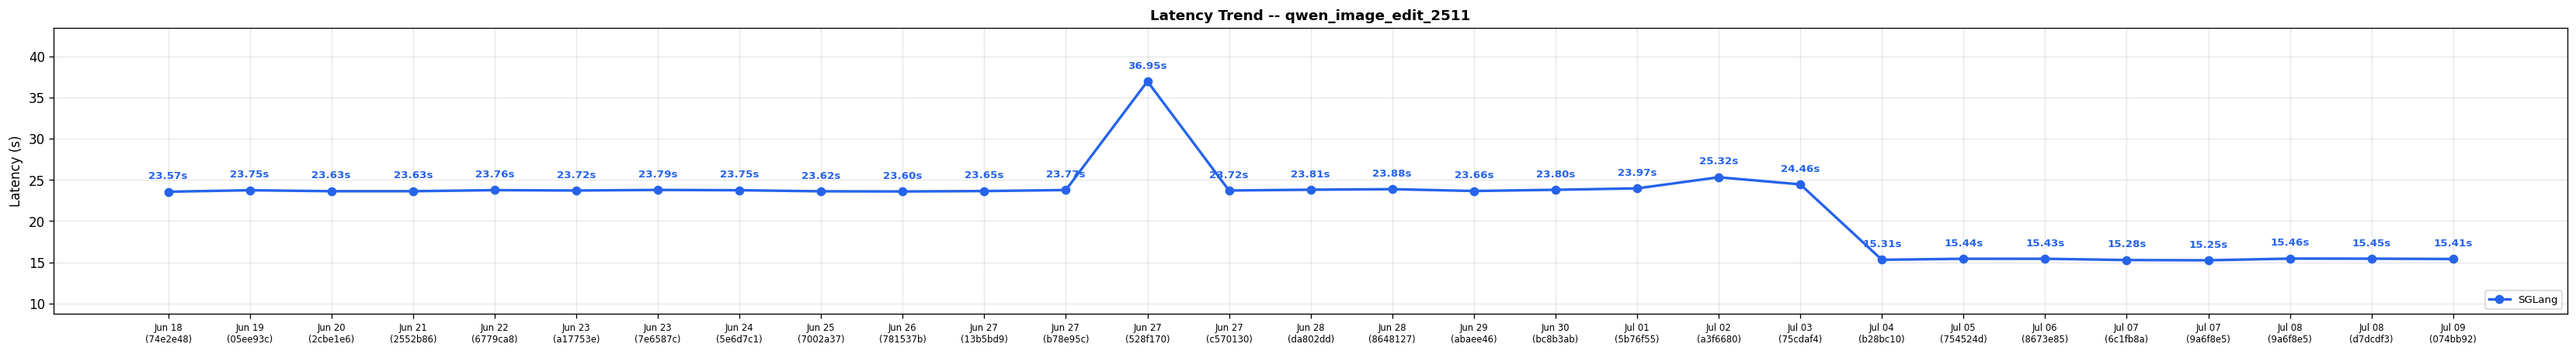
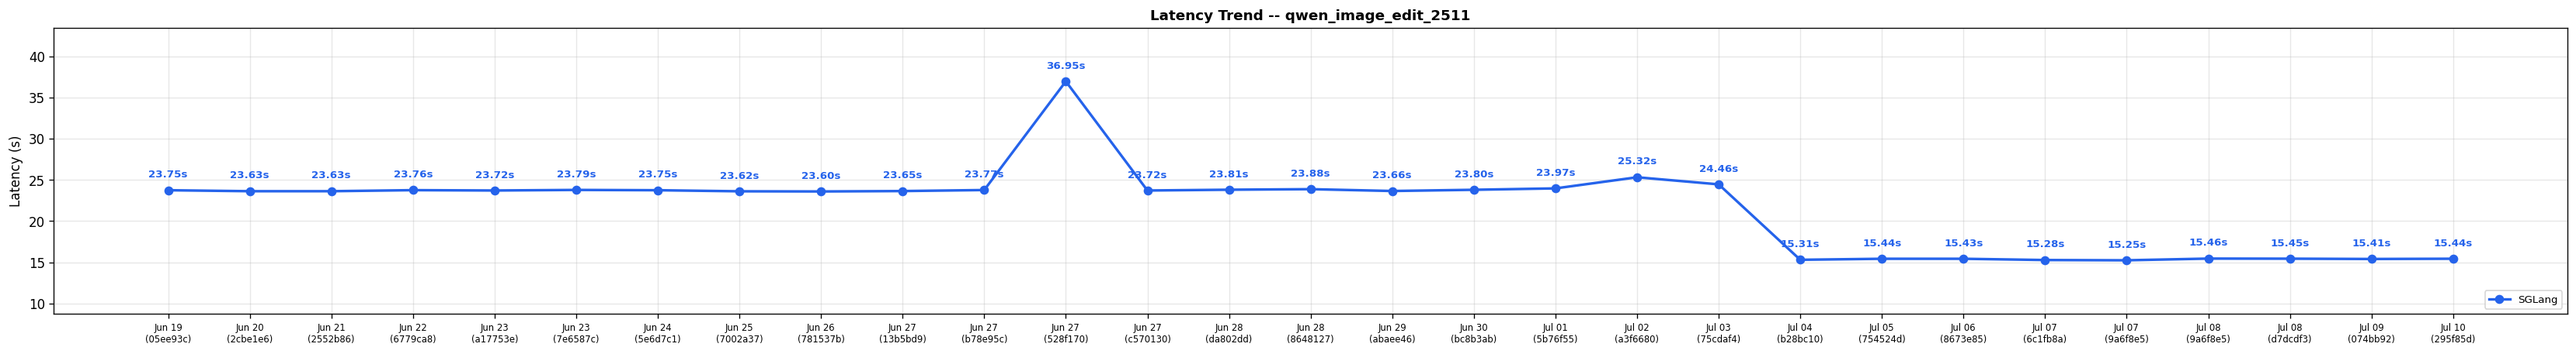
Diffusion comparison results for run 29060884501 (#710)

diff --git a/diffusion-comparisons/dashboard.md b/diffusion-comparisons/dashboard.md
@@ -1,28 +1,28 @@
 # SGLang-Diffusion Nightly Performance Dashboard
 
-*Generated: Jul 09 | Commit: `074bb92`*
+*Generated: Jul 10 | Commit: `295f85d`*
 
 > [!WARNING]
 > **Performance Regression Detected**
 >
-> - **ltx2.3_twostage_ti2v_2gpus** (sglang): 16.06s -> 17.07s (+6.3%)
+> - **cosmos3_super_t2v_2gpu** (sglang): 116.33s -> 128.45s (+10.4%)
 
 
 ## SGLang-Diffusion Performance
 
 | Model | Risk | sglang (s) |
 |-------|------|---------|
-| FLUX.1-dev | ✅ | **4.87** |
-| FLUX.2-dev | ✅ | **14.45** |
-| Qwen-Image-2512 | ✅ | **10.74** |
-| Qwen-Image-Edit-2511 | ✅ | **15.41** |
-| Z-Image-Turbo | ✅ | **0.83** |
-| Wan2.2-T2V-A14B-Diffusers | ✅ | **210.74** |
-| Wan2.2-TI2V-5B-Diffusers | ✅ | **65.24** |
-| LTX-2.3 | ⚠ | **17.07** |
-| ideogram-4-fp8 | ✅ | **5.34** |
-| Cosmos3-Super | ✅ | **116.33** |
-| Wan2.2-I2V-A14B-Diffusers | ✅ | **204.68** |
+| FLUX.1-dev | ✅ | **4.88** |
+| FLUX.2-dev | ✅ | **14.46** |
+| Qwen-Image-2512 | ✅ | **8.98** |
+| Qwen-Image-Edit-2511 | ✅ | **15.44** |
+| Z-Image-Turbo | ✅ | **0.82** |
+| Wan2.2-T2V-A14B-Diffusers | ✅ | **210.72** |
+| Wan2.2-TI2V-5B-Diffusers | ✅ | **65.23** |
+| LTX-2.3 | ✅ | **13.05** |
+| ideogram-4-fp8 | ✅ | **5.38** |
+| Cosmos3-Super | ⚠ | **128.45** |
+| Wan2.2-I2V-A14B-Diffusers | ✅ | **205.69** |
 
 ### Latency Trend: flux1_dev_t2i_1024
 
@@ -83,6 +83,7 @@
 
 | Date | Commit | flux1_dev_t2i_1024 (s) | flux2_dev_t2i_1024 (s) | qwen_image_2512_t2i_1024 (s) | qwen_image_edit_2511 (s) | zimage_turbo_t2i_1024 (s) | wan22_t2v_a14b_720p (s) | wan22_ti2v_5b_720p (s) | ltx2.3_twostage_ti2v_2gpus (s) | ideogram4_fp8_t2i_2gpu (s) | cosmos3_super_t2v_2gpu (s) | wan22_i2v_a14b_720p (s) | Trend |
 |------|--------|---------|---------|---------|---------|---------|---------|---------|---------|---------|---------|---------|-------|
+| Jul 10 | `295f85d` | 4.88 | 14.46 | 8.98 | 15.44 | 0.82 | 210.72 | 65.23 | 13.05 | 5.38 | 128.45 | 205.69 | :left_right_arrow:  :left_right_arrow:  :arrow_down:  :left_right_arrow:  :left_right_arrow:  :left_right_arrow:  :left_right_arrow:  :arrow_down:  :left_right_arrow:  :arrow_up:  :left_right_arrow: |
 | Jul 09 | `074bb92` | 4.87 | 14.45 | 10.74 | 15.41 | 0.83 | 210.74 | 65.24 | 17.07 | 5.34 | 116.33 | 204.68 | :left_right_arrow:  :left_right_arrow:  :arrow_down:  :left_right_arrow:  :left_right_arrow:  :left_right_arrow:  :left_right_arrow:  :arrow_up:  :left_right_arrow:  :left_right_arrow:  :left_right_arrow: |
 | Jul 08 | `d7dcdf3` | 4.85 | 14.45 | 11.00 | 15.45 | 0.82 | 210.76 | 65.22 | 16.06 | 5.34 | 116.39 | 204.66 | :left_right_arrow:  :left_right_arrow:  :arrow_down:  :left_right_arrow:  :left_right_arrow:  :left_right_arrow:  :left_right_arrow:  :left_right_arrow:  :left_right_arrow:  :left_right_arrow:  :left_right_arrow: |
 | Jul 08 | `9a6f8e5` | 4.86 | 14.44 | 11.60 | 15.46 | 0.83 | 210.71 | 65.20 | 16.07 | 5.34 | 116.37 | 204.71 | :left_right_arrow:  :left_right_arrow:  :arrow_up:  :left_right_arrow:  :arrow_down:  :left_right_arrow:  :left_right_arrow:  :arrow_up:  :left_right_arrow:  :left_right_arrow:  :left_right_arrow: |
@@ -111,14 +112,13 @@
 | Jun 22 | `6779ca8` | 4.65 | 14.37 | 12.83 | 23.76 | 0.64 | 209.96 | 65.23 | 14.05 | N/A | N/A | 205.58 | :left_right_arrow:  :left_right_arrow:  :left_right_arrow:  :left_right_arrow:  :left_right_arrow:  :left_right_arrow:  :left_right_arrow:  :arrow_down:    :left_right_arrow: |
 | Jun 21 | `2552b86` | 4.67 | 14.33 | 12.74 | 23.63 | 0.65 | 209.38 | 64.15 | 19.07 | N/A | N/A | 204.55 | :left_right_arrow:  :left_right_arrow:  :left_right_arrow:  :left_right_arrow:  :arrow_down:  :left_right_arrow:  :left_right_arrow:  :arrow_up:    :left_right_arrow: |
 | Jun 20 | `2cbe1e6` | 4.65 | 14.33 | 12.78 | 23.63 | 0.66 | 209.30 | 64.20 | 15.05 | N/A | N/A | 205.54 | :arrow_down:  :arrow_down:  :left_right_arrow:  :left_right_arrow:  :arrow_down:  :left_right_arrow:  :left_right_arrow:  :left_right_arrow:    :left_right_arrow: |
-| Jun 19 | `05ee93c` | 6.99 | 24.86 | 12.81 | 23.75 | 0.91 | 209.14 | 65.23 | 15.06 | N/A | N/A | 204.65 | :left_right_arrow:  :left_right_arrow:  :left_right_arrow:  :left_right_arrow:  :left_right_arrow:  :left_right_arrow:  :left_right_arrow:  :arrow_down:    :left_right_arrow: |
-| Jun 18 | `74e2e48` | 6.93 | 24.48 | 12.71 | 23.57 | 0.92 | 209.03 | 64.21 | 24.08 | N/A | N/A | 204.67 | -- |
+| Jun 19 | `05ee93c` | 6.99 | 24.86 | 12.81 | 23.75 | 0.91 | 209.14 | 65.23 | 15.06 | N/A | N/A | 204.65 | -- |
 
 > [!CAUTION]
 > **Action Required — Performance Alert**
 >
 > The following cases need attention:
-> - ltx2.3_twostage_ti2v_2gpus: SGLang regression +13.3% vs 3-run avg (17.07s vs 15.07s)
+> - cosmos3_super_t2v_2gpu: SGLang regression +10.4% vs 3-run avg (128.45s vs 116.36s)
 
 
 ---
